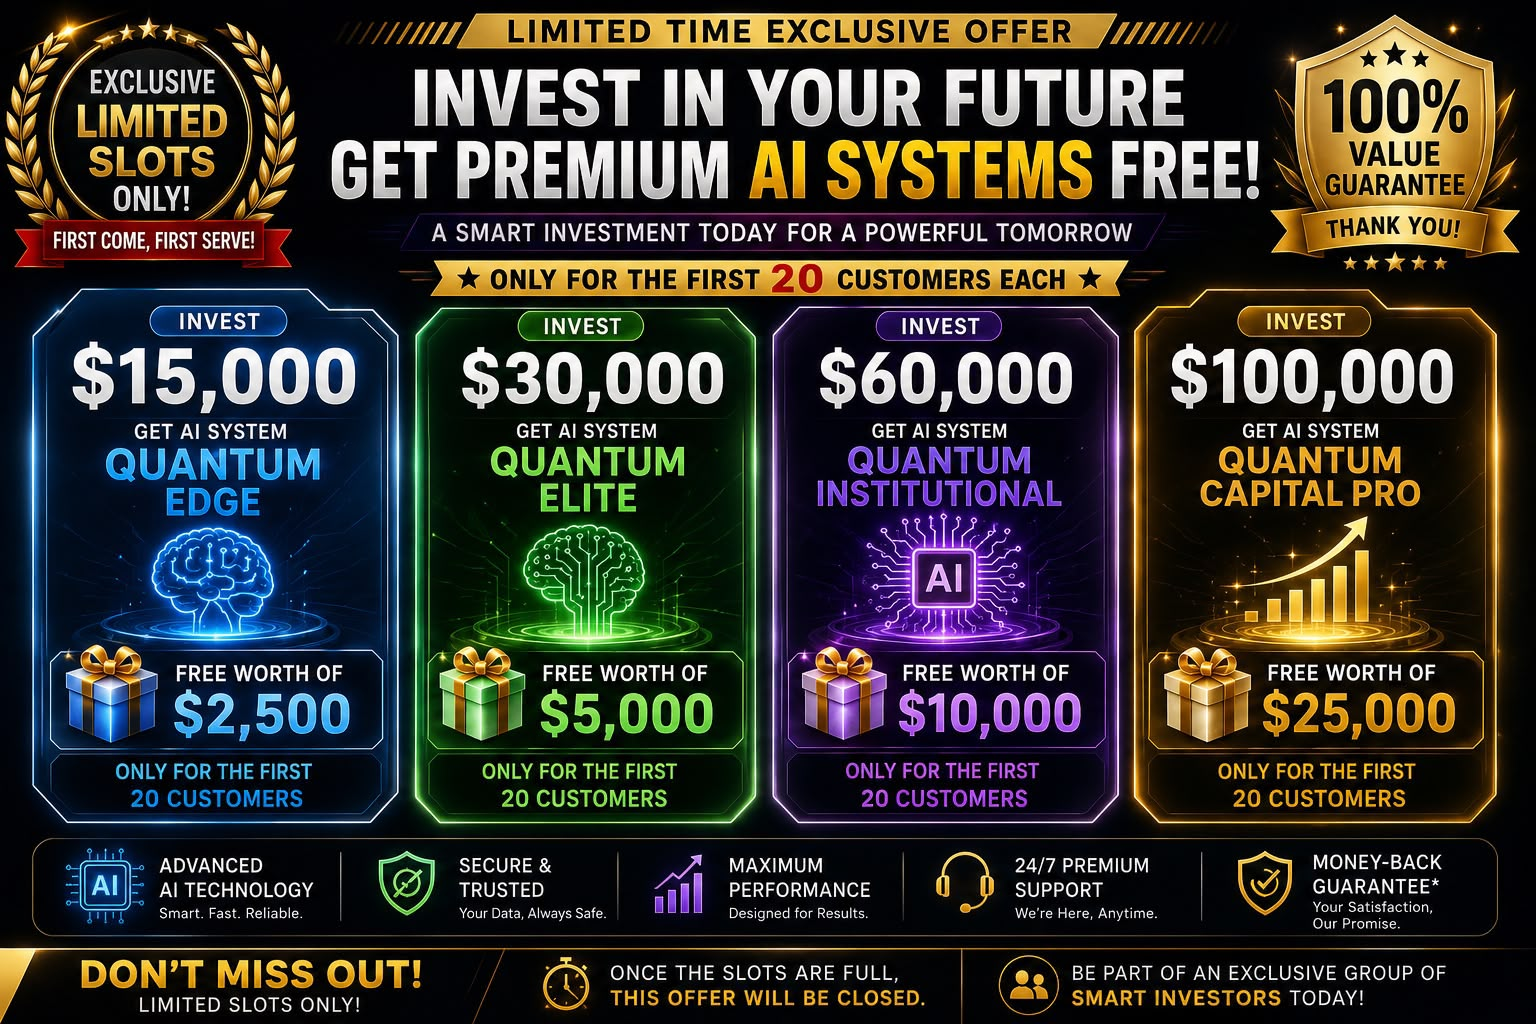
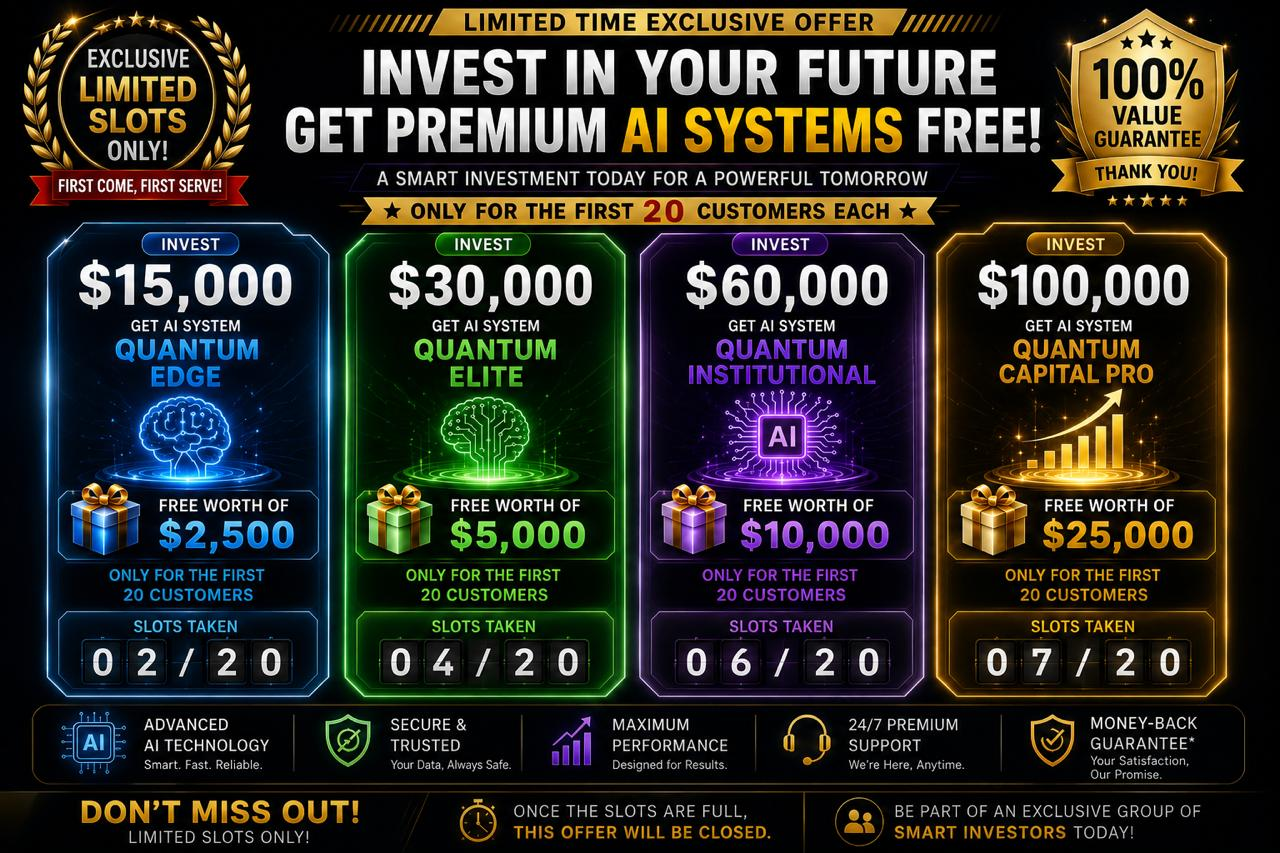
Progress Update

diff --git a/src/pages/QuantumAI.jsx b/src/pages/QuantumAI.jsx
@@ -272,31 +272,30 @@ function QuantumAI() {
       investment: "$15,000",
       system: "Quantum Edge",
       total: 20,
-      taken: 0,
+      taken: 2,
     },
     {
       investment: "$30,000",
       system: "Quantum Elite",
       total: 20,
-      taken: 0,
+      taken: 4,
     },
     {
       investment: "$60,000",
       system: "Quantum Institutional",
       total: 20,
-      taken: 0,
+      taken: 6,
     },
     {
       investment: "$100,000",
       system: "Quantum Capital Pro",
       total: 20,
-      taken: 0,
+      taken: 7,
     },
   ];
 
   return (
     <div className="overflow-hidden bg-bg-main text-text-primary">
-      {/* Exclusive AI System Giveaway */}
       {/* Exclusive AI System Giveaway */}
       <section className="relative isolate overflow-hidden bg-bg-card py-16 sm:py-20">
         <div className="pointer-events-none absolute inset-0 gradient-mesh" />
